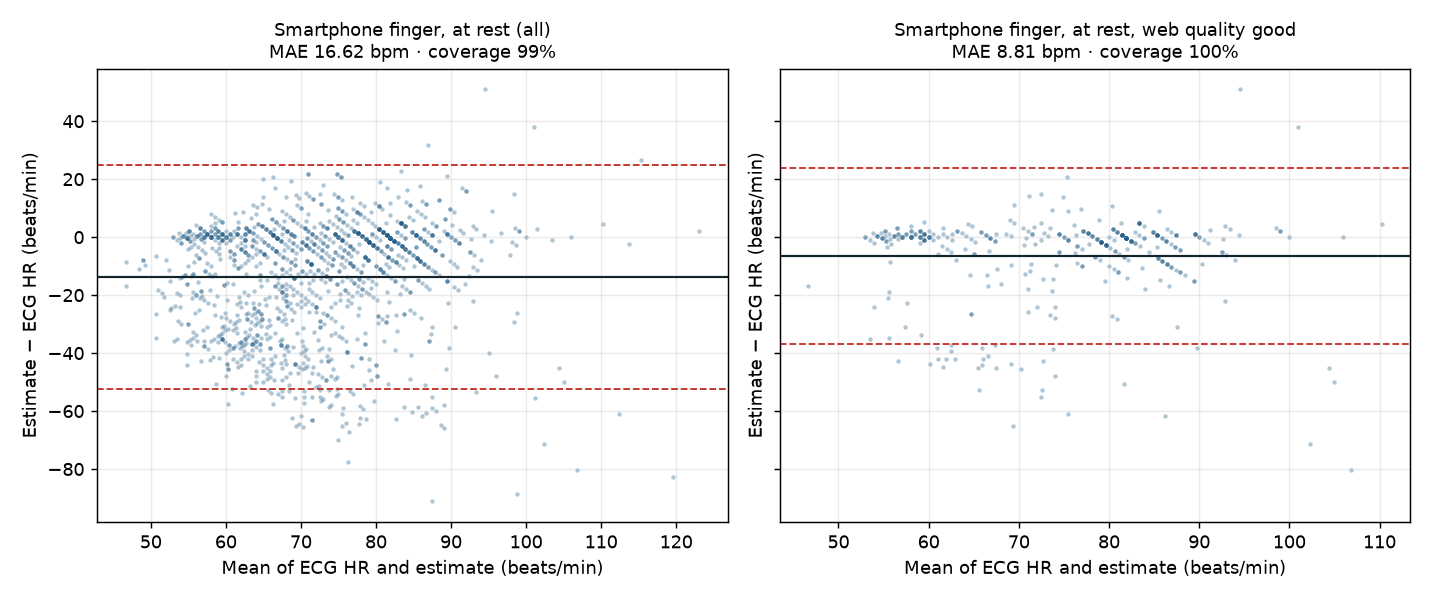
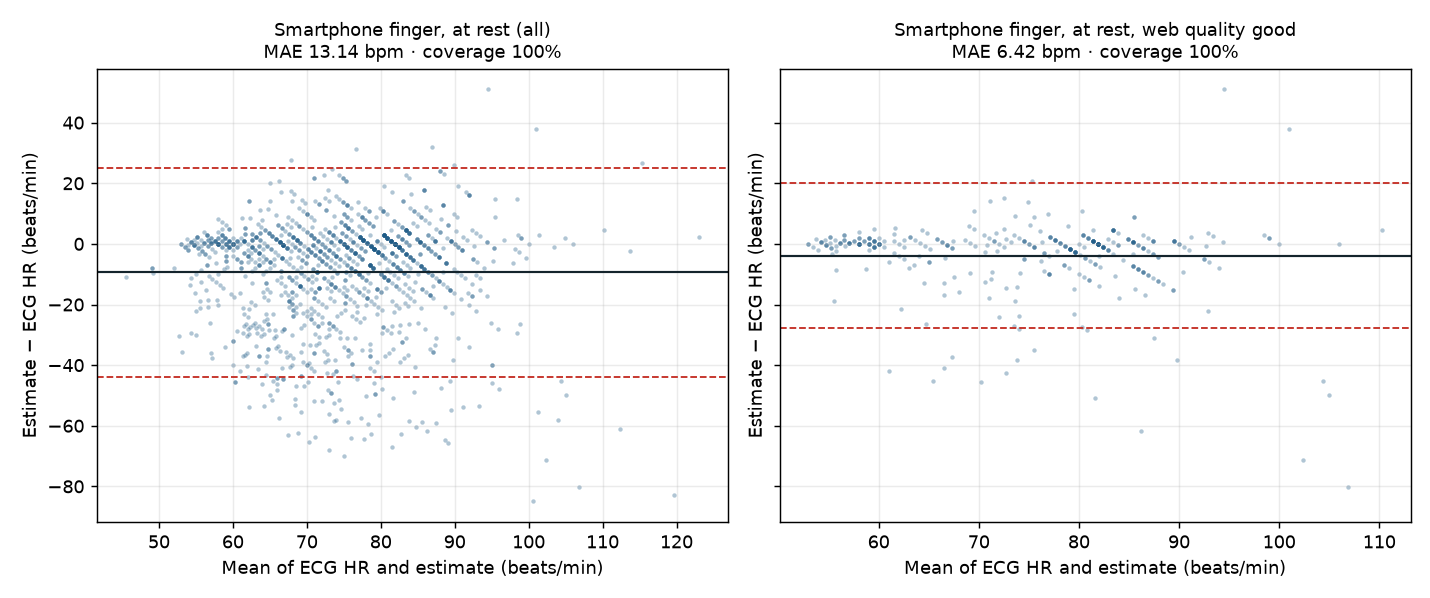
Improve smartphone heart rate with a subject-wise development/test split
Fix a 25/25 subject split of BUT PPG before tuning. On development subjects the main error was the spectral heart rate locking onto half the pulse rate in 10 s phone video, so every other beat was skipped. Estimating the spectral rate after a 0.7 Hz high-pass, while finding beats on the 0.5 Hz band, was the best setting that keeps every synthetic case passing; bolder settings did better on phone video but brought back dicrotic double counting and failed slow heart rates.

Held-out test subjects: MAE 15.8 -> 12.5 beats/min, within 5 beats/min 43% -> 47%. BIDMC heart rate also improves (1.75 -> 1.71) and the web respiratory rate is unchanged.

diff --git a/web/ppg-dsp.js b/web/ppg-dsp.js
@@ -115,8 +115,8 @@
   // interval that follows them (spacing: relative difference)? Null with too few beats:
   // on BIDMC 10 s windows (8-15 beats) over half of the flags were false alarms.
   const MIN_PARITY_BEATS = 16;
-  function parityStats(band, pk) {
-    if (pk.length < MIN_PARITY_BEATS) return null;
+  function parityStats(band, pk, minBeats = MIN_PARITY_BEATS) {
+    if (pk.length < minBeats) return null;
     const h = pk.map(i => band[i]);
     const ev = mean(h.filter((_, i) => i % 2 === 0)), od = mean(h.filter((_, i) => i % 2 === 1));
     const iv = pk.slice(1).map((p, i) => p - pk[i]);
@@ -133,16 +133,32 @@
 
   /* ts: seconds, vs: raw PPG values (higher = more blood), fs: rate to resample to.
      Uses the last `win` seconds. */
-  function estimate(ts, vs, { fs = 30, win = 32, hi = 3 } = {}) {
+  // Defaults chosen on BUT PPG development subjects only (scripts/web_dsp_grid.js), among settings
+  // that keep every synthetic case in tests/web_dsp_cases.js passing. specLo: high-pass for the
+  // spectral heart rate only; it removes the exposure drift that pulled the spectral peak to half the
+  // pulse rate in phone video, while beats are still found on the lo..hi band. Bolder settings
+  // (lo 0.7, minDistFactor 0.45) did better on phone video but brought back dicrotic double counting
+  // and failed slow heart rates, so they stay off.
+  function estimate(ts, vs, { fs = 30, win = 32, hi = 3, lo = 0.5, specLo = 0.7, minDistFactor = 0.6, subharmonicCheck = false } = {}) {
     const t1 = ts[ts.length - 1], t0 = Math.max(ts[0], t1 - win);
     const x = resample(ts, vs, fs, t0, t1);
     if (x.length < fs * 8) return null;
-    const band = bandpass(x, 0.5, hi, fs);
+    const band = bandpass(x, lo, hi, fs);
     const low = lowpass(x, 4, fs);
-    // Spacing beats at >= 60 % of the spectral beat period stops the dicrotic notch counting as a beat.
-    const hrSpec = pulseSpectrumHR(band, fs);
-    const detect = hrGuess => findPeaks(band, Math.max(Math.round(fs * 60 / 180), Math.round(0.6 * fs * 60 / hrGuess)), 0);
+    // Spacing beats by a share of the spectral beat period stops the dicrotic notch counting as a beat.
+    let hrSpec = pulseSpectrumHR(specLo === lo ? band : bandpass(x, specLo, hi, fs), fs);
+    const detect = hrGuess => findPeaks(band, Math.max(Math.round(fs * 60 / 180), Math.round(minDistFactor * fs * 60 / hrGuess)), 0);
     let pk = detect(hrSpec);
+    // Short, noisy windows (phone video) can put the spectral peak at half the pulse rate, so every
+    // other beat is skipped. Try twice the rate: keep it if those peaks are even in height and spacing.
+    let subharmonic = false;
+    if (subharmonicCheck && 2 * hrSpec <= 180) {
+      const pk2 = detect(2 * hrSpec);
+      const p2 = parityStats(band, pk2, 8);
+      if (p2 && p2.amp >= 0.6 && p2.spacing <= 0.2 && pk2.length >= 1.6 * pk.length) {
+        pk = pk2; hrSpec = 2 * hrSpec; subharmonic = true;
+      }
+    }
     // A strong dicrotic wave can win the spectrum at twice the pulse rate; then counted "beats"
     // alternate tall/short, or short-long in spacing. Short-long spacing means the in-between
     // peaks are dicrotic waves: halve. Tall/short with even spacing could be genuinely weak beats,
@@ -183,6 +199,7 @@
     }
     const alternation = pk.length > 1 ? midway / (pk.length - 1) : 0;
     out.doubling = doubling;
+    out.subharmonic = subharmonic;
     out.alternans = doubling === 'ambiguous'
       || (doubling !== 'dicrotic' && pk.length >= MIN_PARITY_BEATS && alternation >= 0.6);
     if (out.alternans) out.hrAlt = doubling === 'ambiguous' ? out.hr / 2 : 2 * out.hr;

diff --git a/scripts/butppg_dev.js b/scripts/butppg_dev.js
@@ -1,0 +1,59 @@
+/* Development harness for smartphone heart rate: BUT PPG development subjects only
+   (data/processed/butppg_split.csv), fingertip at rest. Compares estimate() option sets.
+   Never reads test subjects. Usage: node scripts/butppg_dev.js */
+const fs = require('fs');
+const path = require('path');
+const D = require('../web/ppg-dsp.js');
+
+const raw = fs.readdirSync('data/raw/butppg').map(d => path.join('data/raw/butppg', d)).find(d => fs.statSync(d).isDirectory());
+const csv = f => fs.readFileSync(f, 'utf8').replace(/^/, '').trim().split(/\r?\n/).map(l => l.split(','));
+const ann = Object.fromEntries(csv(path.join(raw, 'quality-hr-ann.csv')).slice(1).map(r => [r[0], { q: +r[1], hr: +r[2] }]));
+const info = Object.fromEntries(csv(path.join(raw, 'subject-info.csv')).slice(1).map(r => [r[0], { site: +r[5], motion: r[6] }]));
+const split = Object.fromEntries(csv('data/processed/butppg_split.csv').slice(1).map(r => [r[0], r[1]]));
+
+const recs = [];
+for (const f of csv('data/processed/butppg_ppg.csv')) {
+  const id = f[0];
+  if (split[id.slice(0, 3)] !== 'dev' || info[id].site !== 1 || info[id].motion !== '0') continue;
+  const rate = +f[1], n = +f[2];
+  recs.push({ id, rate, red: f.slice(3, 3 + n).map(Number), green: f.slice(3 + n, 3 + 2 * n).map(v => (v === '' ? NaN : +v)), ...ann[id] });
+}
+
+function runOne(r, opts) {
+  const t = r.red.map((_, i) => i / r.rate);
+  const go = sig => { const o = D.estimate(t, sig, { fs: r.rate, win: r.red.length / r.rate, ...opts }); return o; };
+  let best = go(r.red);
+  if (r.green.every(Number.isFinite)) best = D.better(best, go(r.green));
+  return best;
+}
+
+function evaluate(name, opts) {
+  const err = [], ratio = [];
+  let good = 0, goodErr = [];
+  for (const r of recs) {
+    const o = runOne(r, opts);
+    const hr = o && Number.isFinite(o.hr) ? o.hr : NaN;
+    if (!Number.isFinite(hr)) continue;
+    err.push(Math.abs(hr - r.hr)); ratio.push(hr / r.hr);
+    if (o.quality === 'good') { good++; goodErr.push(Math.abs(hr - r.hr)); }
+  }
+  const mean = a => a.reduce((s, v) => s + v, 0) / a.length;
+  const within = err.filter(e => e <= 5).length / recs.length;
+  const half = ratio.filter(x => x > 0.4 && x < 0.6).length;
+  console.log(`${name.padEnd(46)} MAE ${mean(err).toFixed(2).padStart(6)}  within5 ${(within * 100).toFixed(0).padStart(3)}%  halved ${String(half).padStart(3)}  `
+    + `web-good ${String(good).padStart(3)} (MAE ${goodErr.length ? mean(goodErr).toFixed(2) : '--'})`);
+}
+
+module.exports = { recs, runOne, evaluate };
+if (require.main === module) {
+  console.log(`${recs.length} development recordings (fingertip, at rest)`);
+  evaluate('current algorithm', {});
+  const diag = { sub: 0, ok: 0 };
+  for (const r of recs) {
+    const o = runOne(r, {});
+    if (!o) continue;
+    const q = o.hrSpec / r.hr;
+    if (q > 0.4 && q < 0.6) diag.sub++; else if (q > 0.9 && q < 1.1) diag.ok++;
+  }
+  console.log(`spectral HR about half the true rate: ${diag.sub}, about right: ${diag.ok}`);
+}

diff --git a/web/index.html b/web/index.html
@@ -207,8 +207,8 @@ footer p{margin:0 0 6px;max-width:62em}
         <thead><tr><th>數值</th><th>狀態</th><th>結果</th><th>驗證資料</th></tr></thead>
         <tbody>
           <tr><td>呼吸速率</td><td><span class="vs vs-part">部分驗證</span></td><td>外部驗證平均誤差 1.0 次/分(成人 95% 範圍 −2.8 ~ +2.1)。<strong>一般成人、手機鏡頭都還沒有驗證。</strong></td><td>醫療級血氧機:ICU 病人 53 位(BIDMC)、手術麻醉中 42 位(CapnoBase)</td></tr>
-          <tr><td>心跳(血氧機訊號)</td><td><span class="vs vs-ok">已驗證</span></td><td>平均誤差 1.75 次/分</td><td>ICU 病人 53 位,和心電圖比對</td></tr>
-          <tr><td>心跳(手機鏡頭)</td><td><span class="vs vs-bad">準確度不足</span></td><td>指尖靜止時平均誤差 16.6 次/分,只有 37% 在 ±5 次以內,而且常常低估;訊號良好時平均誤差 5.4。</td><td>一般成人 50 位、手機指尖 10 秒錄影(BUT PPG),和心電圖比對</td></tr>
+          <tr><td>心跳(血氧機訊號)</td><td><span class="vs vs-ok">已驗證</span></td><td>平均誤差 1.71 次/分</td><td>ICU 病人 53 位,和心電圖比對</td></tr>
+          <tr><td>心跳(手機鏡頭)</td><td><span class="vs vs-bad">準確度不足</span></td><td>指尖靜止時平均誤差 13.1 次/分,只有 42% 在 ±5 次以內,而且偏向低估;訊號良好時平均誤差 3.6、82% 在 ±5 次以內。</td><td>一般成人 50 位、手機指尖 10 秒錄影(BUT PPG),和心電圖比對</td></tr>
           <tr><td>VO2 max</td><td><span class="vs vs-bad">實驗性</span></td><td>95% 範圍約 ±14 mL/kg/min;用手機量的靜止心跳是否有幫助,無法驗證。</td><td>運動員 824 位、955 次跑步機實測</td></tr>
           <tr><td>體能等級</td><td><span class="vs vs-part">參考</span></td><td>正式發表的參考值,不需另外驗證;但估算值本身誤差大,等級僅供參考。</td><td>FRIEND 美國一般成人常模</td></tr>
         </tbody>

diff --git a/tests/web_dsp_cases.js b/tests/web_dsp_cases.js
@@ -2,6 +2,7 @@
    different size and position, noise, fast and slow rates, and a weak every-second beat.
    Run: node tests/web_dsp_cases.js  (exits non-zero on failure) */
 const path = require('path');
+const EXTRA = process.env.PPG_OPTS ? JSON.parse(process.env.PPG_OPTS) : {};   // option overrides for scripts/web_dsp_grid.js
 const D = require(path.join(__dirname, '..', 'web', 'ppg-dsp.js'));
 function gen({ rr = 15, hr = 75, noise = 0.05, diaPos = 0.30, diaAmp = 0.45, weakEvery = 0, weakAmp = 0.15, seed = 7 }) {
   let s = seed; const rnd = () => { s = (s * 16807) % 2147483647; return s / 2147483647 - 0.5; };
@@ -22,7 +23,7 @@ const cases = [
 ];
 let fail = 0;
 for (const seed of [7, 11, 23]) for (const [name, o, truth] of cases) {
-  const g = gen({ ...o, seed }); const r = D.estimate(g.ts, g.vs, { fs: 30, win: 32 });
+  const g = gen({ ...o, seed }); const r = D.estimate(g.ts, g.vs, { fs: 30, win: 32, ...EXTRA });
   const ok = Math.abs(r.hr - truth) < 3 || (r.alternans && Math.abs(r.hrAlt - truth) < 3); if (!ok) fail++;
   if (seed === 7 || !ok) console.log((ok ? 'ok  ' : 'FAIL') + ` seed ${seed} ` + name.padEnd(32), 'truth', truth, 'hr', r.hr.toFixed(1), 'doubling', r.doubling, 'alt', r.alternans ? r.hrAlt.toFixed(0) : '-', 'q', r.quality, 'rr', Number.isFinite(r.rr) ? r.rr.toFixed(1) : 'NaN');
 }

diff --git a/scripts/web_dsp_grid.js b/scripts/web_dsp_grid.js
@@ -1,0 +1,25 @@
+/* Compare estimate() option sets on BUT PPG development subjects AND the synthetic regression cases.
+   A candidate is acceptable only if every synthetic case still passes. Usage: node scripts/web_dsp_grid.js */
+const { execFileSync } = require('child_process');
+const path = require('path');
+const H = require('./butppg_dev.js');
+
+function syntheticFailures(opts) {
+  try {
+    execFileSync(process.execPath, [path.join(__dirname, '..', 'tests', 'web_dsp_cases.js')],
+      { env: { ...process.env, PPG_OPTS: JSON.stringify(opts) }, stdio: 'pipe' });
+    return 0;
+  } catch (e) {
+    const m = String(e.stdout).match(/(\d+) FAILED/);
+    return m ? +m[1] : -1;
+  }
+}
+
+const grid = [];
+for (const specLo of [0.5, 0.7]) for (const lo of [0.5, 0.7]) for (const minDistFactor of [0.45, 0.5, 0.6]) for (const subharmonicCheck of [false, true])
+  grid.push({ specLo, lo, minDistFactor, subharmonicCheck });
+console.log(`${H.recs.length} development recordings; synthetic failures in brackets`);
+for (const o of grid) {
+  const fails = syntheticFailures(o);
+  H.evaluate(`[${fails} fail] specLo ${o.specLo} lo ${o.lo} minDist ${o.minDistFactor}${o.subharmonicCheck ? ' sub' : ''}`, o);
+}

diff --git a/scripts/butppg_split.py b/scripts/butppg_split.py
@@ -1,0 +1,36 @@
+"""Fix the BUT PPG development / test split by subject, before any tuning.
+
+Subjects (first three digits of the record ID) are shuffled with a fixed seed and split in half.
+Development subjects may be looked at freely while improving the algorithm; test subjects are
+evaluated once, at the end. Writes data/processed/butppg_split.csv (subject, split).
+Usage:  python scripts/butppg_split.py
+"""
+from __future__ import annotations
+
+import argparse
+from pathlib import Path
+
+import numpy as np
+import pandas as pd
+
+
+def main() -> None:
+    ap = argparse.ArgumentParser()
+    ap.add_argument("--raw", type=Path, default=Path("data/raw/butppg"))
+    ap.add_argument("--out", type=Path, default=Path("data/processed/butppg_split.csv"))
+    ap.add_argument("--seed", type=int, default=20261106)
+    args = ap.parse_args()
+    root = next(p.parent for p in args.raw.rglob("quality-hr-ann.csv"))
+    ids = pd.read_csv(root / "quality-hr-ann.csv", encoding="utf-8-sig")["ID"].astype(str)
+    subjects = np.array(sorted(ids.str[:3].unique()))
+    rng = np.random.default_rng(args.seed)
+    rng.shuffle(subjects)
+    half = len(subjects) // 2
+    split = pd.DataFrame({"subject": subjects, "split": ["dev"] * half + ["test"] * (len(subjects) - half)})
+    args.out.parent.mkdir(parents=True, exist_ok=True)
+    split.sort_values("subject").to_csv(args.out, index=False)
+    print(split.split.value_counts().to_dict(), "->", args.out)
+
+
+if __name__ == "__main__":
+    main()

diff --git a/scripts/validate_butppg.py b/scripts/validate_butppg.py
@@ -64,6 +64,21 @@ def main() -> None:
             subsets[f"finger, {name}"] = d[(d.site == "finger") & (d["Motion"].astype(str) == str(code))]
     rows = [{"subset": k, **summary(v)} for k, v in subsets.items() if len(v)]
     rows.append({"subset": "finger, at rest — polarity flipped (sensitivity check)", **summary(intended, "web_hr_flipped")})
+
+    # development / test split by subject (scripts/butppg_split.py); the algorithm was tuned on dev only
+    split_file = Path("data/processed/butppg_split.csv")
+    if split_file.exists():
+        split = pd.read_csv(split_file, dtype={"subject": str})
+        intended = intended.merge(split, on="subject", how="left")
+        before = Path("data/processed/butppg_web_before.csv")
+        if before.exists():
+            b = pd.read_csv(before)[["id", "web_hr"]].rename(columns={"web_hr": "web_hr_before"})
+            intended = intended.merge(b, on="id", how="left")
+        for s in ("dev", "test"):
+            part = intended[intended.split == s]
+            if "web_hr_before" in part:
+                rows.append({"subset": f"finger, at rest, {s} subjects — before tuning", **summary(part, "web_hr_before")})
+            rows.append({"subset": f"finger, at rest, {s} subjects — current", **summary(part)})
     table = pd.DataFrame(rows)
     table.to_csv(args.out / "butppg_metrics.csv", index=False)
 

diff --git a/README.md b/README.md
@@ -8,7 +8,7 @@
 
 - **呼吸速率:** 在 BIDMC(53 位 ICU 病人)依病人分組交叉驗證,LightGBM MAE **1.95 次/分**,優於傳統方法。**但在外部資料集 CapnoBase(42 位手術麻醉中的兒童與成人)排名完全反轉:** LightGBM MAE 5.60 最差,傳統的 smart fusion MAE **1.00** 最好,抓呼吸過慢與過快的敏感度都是 93%。LightGBM 學到的是 BIDMC 的呼吸速率分布,換了族群就失準;網頁因此採用 smart fusion。
 - **VO2 max:** 用 955 次實測的跑步機最大攝氧量測試驗證。只靠年齡、性別、BMI 的誤差約 ±12.5%,95% 界限 ±14 mL/kg/min;Uth 心跳公式因資料中沒有真正的靜止心跳而無法正確驗證。網頁只以**實驗性卡片**呈現,完整顯示誤差範圍,並對照 FRIEND 常模。
-- **心跳:** 以心電圖為參考,實際上線的網頁演算法在血氧機訊號(降到 30 Hz)上 MAE **1.75 次/分**(商用監視器 0.99)。**但在 50 位一般成人的手機錄影(BUT PPG)上,指尖靜止時 MAE 16.6 次/分,只有 37% 在 ±5 次以內**;專家判定訊號良好時 MAE 5.4。手機鏡頭量心跳的準確度目前不足。
+- **心跳:** 以心電圖為參考,實際上線的網頁演算法在血氧機訊號(降到 30 Hz)上 MAE **1.71 次/分**(商用監視器 0.99)。**但在 50 位一般成人的手機錄影(BUT PPG)上,指尖靜止時 MAE 13.1 次/分,只有 42% 在 ±5 次以內**(依受試者分組改進後,測試組 MAE 從 15.8 降到 12.5);專家判定訊號良好時 MAE 3.6。手機鏡頭量心跳的準確度仍然不足。
 - **網頁:** 定位為一般成人的居家健康參考(原型):手機鏡頭即時量測、量測紀錄與情境統計、實驗性 VO2 max、資料集重播,並在頁面上列出每項數值的驗證狀態。紀錄只存在裝置上。
 - **限制:** 呼吸速率只在臨床病人和醫療級血氧機上驗證過,**一般成人、手機鏡頭都還沒有呼吸速率的驗證資料**。
 
@@ -49,8 +49,8 @@ QR Code 由 `python scripts/make_qr.py` 產生;網址改變時重新執行即可
 | 數值 | 驗證族群與設備 | 結果 | 和目標的差距 |
 |---|---|---|---|
 | 呼吸速率 | ICU 病人(BIDMC)、手術麻醉中病人(CapnoBase);醫療級血氧機 | 外部 MAE 1.00,成人 95% 界限 −2.8 ~ +2.1 | **族群與設備都不同**,沒有一般成人或手機的驗證 |
-| 心跳(血氧機) | ICU 病人;醫療級血氧機 | MAE 1.75 | 族群不同 |
-| 心跳(手機鏡頭) | **一般成人 50 位;手機指尖錄影(BUT PPG)** | 指尖靜止 MAE 16.6,37% 在 ±5 以內 | **族群與設備相符,但準確度不足** |
+| 心跳(血氧機) | ICU 病人;醫療級血氧機 | MAE 1.71 | 族群不同 |
+| 心跳(手機鏡頭) | **一般成人 50 位;手機指尖錄影(BUT PPG)** | 指尖靜止 MAE 13.1,42% 在 ±5 以內 | **族群與設備相符,但準確度不足** |
 | VO2 max | 業餘與職業運動員;跑步機實測 | 95% 界限 ±14 mL/kg/min | 族群不同(運動員),且沒有真正的靜止心跳 |
 | 體能等級 | FRIEND 美國一般成人 | 正式發表的常模 | 估算值本身誤差大 |
 
@@ -58,7 +58,7 @@ QR Code 由 `python scripts/make_qr.py` 產生;網址改變時重新執行即可
 
 ### 補齊差距所需的驗證
 
-1. **手機鏡頭心跳:** 改善後,以 BUT PPG **依受試者分成開發組和測試組**重新評估,避免拿測試資料調整演算法;再用 32 秒的錄影驗證,和網頁實際的視窗長度一致。
+1. **手機鏡頭心跳:** 已依受試者分組改進一次(測試組 MAE 15.8 → 12.5),仍不足。下一步是用 32 秒的錄影驗證,和網頁實際的視窗長度一致,並改善訊號品質判斷,讓網頁能可靠地拒絕不良訊號。
 2. **一般成人的呼吸速率:** 需要健康成人、自然呼吸、同時有手機 PPG 與參考呼吸訊號(例如胸帶或二氧化碳監測)的資料。目前沒有找到合適的公開資料,需要自行收案,建議至少 30 人,涵蓋不同膚色、年齡與性別,並在安靜時量測。
 3. **VO2 max:** 需要一般成人(不是只有運動員)同時有真正的靜止心跳與實測 VO2 max 的資料。
 
@@ -157,9 +157,9 @@ QR Code 由 `python scripts/make_qr.py` 產生;網址改變時重新執行即可
 | 視窗 | 方法 | MAE(次/分) | 偏差 | 95% 一致性界限 | 誤差 ≤ 5 次/分 |
 |---|---|---|---|---|---|
 | 32 秒 | 簡單波峰偵測(Python,125 Hz) | 2.49 | +1.45 | −21.3 ~ +24.2 | 96% |
-| 32 秒 | **網頁演算法(30 Hz)** | **1.75** | −0.60 | −6.9 ~ +5.7 | 96% |
+| 32 秒 | **網頁演算法(30 Hz)** | **1.71** | −0.54 | −6.3 ~ +5.2 | 96% |
 | 32 秒 | 監視器內建脈搏(商用演算法,對照) | 0.99 | −0.72 | −5.5 ~ +4.1 | 97% |
-| 10 秒 | **網頁演算法(30 Hz)** | 2.51 | −0.99 | −12.8 ~ +10.9 | 91% |
+| 10 秒 | **網頁演算法(30 Hz)** | 2.31 | −0.73 | −10.6 ~ +9.2 | 92% |
 | 10 秒 | 監視器內建脈搏(商用演算法,對照) | 1.36 | −0.73 | −6.8 ~ +5.4 | 95% |
 
 ![心跳 Bland-Altman](results/hr_bland_altman.png)
@@ -177,23 +177,41 @@ QR Code 由 `python scripts/make_qr.py` 產生;網址改變時重新執行即可
 
 把**實際上線的網頁演算法**原封不動地跑在這些錄影上,和網頁一樣在紅色與綠色通道中選訊號較好的一個(`scripts/butppg_export.py` → `scripts/butppg_eval.js` → `scripts/validate_butppg.py`,`results/butppg_metrics.csv`):
 
+結果(改進後的演算法,見下方「改進手機心跳」):
+
 | 情境 | 紀錄 / 受試者 | MAE | 偏差 | 95% 一致性界限 | 誤差 ≤ 5 次/分 |
 |---|---|---|---|---|---|
-| **指尖、靜止(網頁的使用方式)** | 1,354 / 30 | **16.6** | −13.8 | −52.3 ~ +24.8 | **37%** |
-| 指尖、靜止、專家判定良好 | 477 / 30 | 5.4 | −3.3 | −23.8 ~ +17.1 | 78% |
-| 指尖、靜止、專家判定不佳 | 877 / 20 | 22.8 | −19.5 | −60.9 ~ +22.0 | 14% |
-| 指尖、靜止、網頁判定品質「良好」 | 382 / 30 | 8.8 | −6.5 | −36.7 ~ +23.7 | 66% |
-| 耳朵、靜止 | 1,370 / 20 | 18.9 | −15.0 | −52.5 ~ +22.5 | 25% |
-| 指尖、走路 / 咳嗽 / 笑 | 各 70 / 18 | 24.8–27.4 | −23.6 ~ −26.1 | — | 23–30% |
+| **指尖、靜止(網頁的使用方式)** | 1,354 / 30 | **13.1** | −9.4 | −44.0 ~ +25.1 | **42%** |
+| 指尖、靜止、專家判定良好 | 477 / 30 | 3.6 | −1.5 | −14.8 ~ +11.8 | 82% |
+| 指尖、靜止、專家判定不佳 | 877 / 20 | 18.3 | −13.7 | −53.0 ~ +25.6 | 20% |
+| 指尖、靜止、網頁判定品質「良好」 | 366 / 30 | 6.4 | −3.9 | −27.8 ~ +20.1 | 70% |
+| 耳朵、靜止 | 1,370 / 20 | 14.4 | −7.9 | −43.0 ~ +27.2 | 約 30% |
+| 指尖、走路 / 咳嗽 / 笑 | 各 70 / 18 | 19.4–22.2 | −16.8 ~ −20.4 | — | 約 30% |
 
 ![手機 Bland-Altman](results/butppg_bland_altman.png)
 
-- **手機鏡頭量心跳的準確度不足。** 指尖靜止時只有 37% 在 ±5 次以內,而且系統性低估,代表常常漏算心跳。
-- **主要原因是訊號品質:** 專家只判定 35% 的指尖靜止錄影「看得出準確的心跳」。訊號良好時,MAE 降到 5.4。
-- **視窗太短也是原因之一:** 每段只有 10 秒,網頁實際用 32 秒;在 BIDMC 上,10 秒視窗的 MAE 本來就比 32 秒大(2.5 vs 1.75)。
-- **網頁的品質判斷只有部分有效:** 判為「良好」的紀錄中,66% 是專家判定的好訊號;專家判定的好訊號,也只有 53% 被網頁判為「良好」(`results/butppg_quality_crosstab.csv`)。
-- **訊號方向不是問題:** 這份資料有兩種儲存格式,方向相反。方向是用波形特徵(血量波形上升快、下降慢)判斷的,不是用準確度挑選;把方向反過來重跑,結果幾乎一樣(MAE 16.5)。
-- **沒有用這份資料調整演算法。** 若要改進,應依受試者分成開發組與測試組,避免高估效果。
+- **手機鏡頭量心跳的準確度仍然不足。** 指尖靜止時只有 42% 在 ±5 次以內,而且仍偏向低估,代表會漏算心跳。
+- **主要原因是訊號品質:** 專家只判定 35% 的指尖靜止錄影「看得出準確的心跳」。訊號良好時,MAE 是 3.6,82% 在 ±5 次以內。
+- **視窗太短也是原因之一:** 每段只有 10 秒,網頁實際用 32 秒;在 BIDMC 上,10 秒視窗的誤差本來就比 32 秒大。
+- **網頁的品質判斷只有部分有效:** 判為「良好」的紀錄中,68% 是專家判定的好訊號;專家判定的好訊號,只有 52% 被網頁判為「良好」(`results/butppg_quality_crosstab.csv`)。
+- **訊號方向不是問題:** 這份資料有兩種儲存格式,方向相反。方向是用波形特徵(血量波形上升快、下降慢)判斷的,不是用準確度挑選;把方向反過來重跑,結果幾乎一樣。
+
+#### 改進手機心跳(開發組 / 測試組)
+
+先依受試者固定分成**開發組 25 人、測試組 25 人**(`scripts/butppg_split.py`,固定亂數種子),只在開發組上找問題和比較設定,測試組最後只評估一次。
+
+- **找到的問題:** 開發組的錯誤以「漏算」為主,其中約五分之一的錄影,心跳只算到真實值的一半。原因是 10 秒的手機錄影中,自動曝光造成的低頻飄移讓頻譜心跳抓到半速,用它設定的「兩次心跳最小距離」就太大,每隔一下漏掉一下。
+- **比較的設定**(`scripts/web_dsp_grid.js`):高通頻率、最小距離比例、次諧波檢查等 24 種組合,並**同時要求 `tests/web_dsp_cases.js` 的合成測試全部通過**。
+- **取捨:** 開發組上最好的組合 MAE 可到 10.2,但會讓 10 項合成測試失敗:重搏波被算成兩倍,慢心跳(每分鐘 45 下)也估錯。選擇不破壞既有保護、效果最好的設定:**只在估算頻譜心跳時改用 0.7 Hz 高通**,偵測心跳仍用 0.5 Hz。
+
+| | 改進前 MAE | 改進後 MAE | 改進後誤差 ≤ 5 |
+|---|---|---|---|
+| 開發組(14 人有指尖靜止錄影) | 18.2 | 14.3 | 34% |
+| **測試組(16 人,未參與調整)** | **15.8** | **12.5** | **47%**(改進前 43%) |
+| BIDMC 血氧機訊號,32 秒 | 1.75 | 1.71 | 96% |
+| BIDMC 血氧機訊號,10 秒 | 2.51 | 2.31 | 92% |
+
+測試組的進步幅度和開發組相近,代表改進不是只貼合開發組;BIDMC 上的心跳也小幅變好,網頁的呼吸速率結果不變(MAE 2.67)。
 
 ### 外部驗證:CapnoBase
 
@@ -282,7 +300,8 @@ python scripts/download_capnobase.py && python scripts/external_capnobase.py   #
 # 下載 https://physionet.org/content/treadmill-exercise-cardioresp/get-zip/1.0.1/ 解壓縮到 data/raw/treadmill/
 python scripts/vo2max.py
 # 下載 https://physionet.org/content/butppg/get-zip/2.0.0/ 解壓縮到 data/raw/butppg/
-python scripts/butppg_export.py && node scripts/butppg_eval.js && python scripts/validate_butppg.py   # 手機心跳驗證
+python scripts/butppg_split.py && python scripts/butppg_export.py && node scripts/butppg_eval.js && python scripts/validate_butppg.py   # 手機心跳驗證
+node scripts/web_dsp_grid.js   # 只用開發組比較演算法設定
 python scripts/export_demo.py
 node scripts/hr_web_eval.js && python scripts/validate_hr.py   # 心跳驗證
 python -m http.server 8000 -d web   # 開啟 http://localhost:8000
